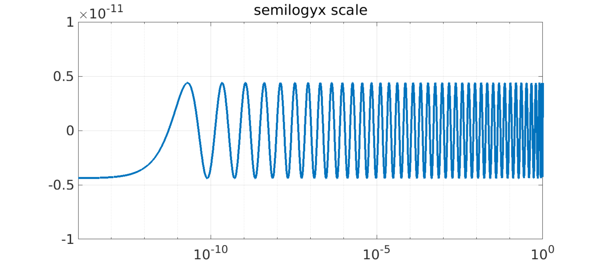
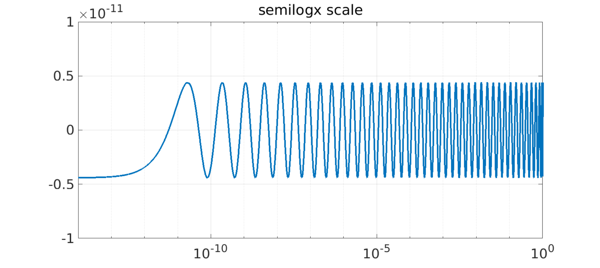
RationalAbsx typo

diff --git a/examples/approx/img/RationalAbsx.html b/examples/approx/img/RationalAbsx.html
@@ -17,9 +17,9 @@ Now, by contrast, here we go to type $(80,80)$.  Chebfun has to work a bit, but 
 tic, [p,q,r] = minimax(f,80,80,'silent'); toc
 xx = linspace(-1,1,3000).^3;
 LW = 'linewidth'; FS = 'fontsize';
-plot(xx,f(xx)-r(xx),LW,4)
+plot(xx,f(xx)-r(xx),LW,3)
 grid on, ylim(1e-11*[-1 1])
-title('error curve for type (80,80) approximation',FS,36)</pre><pre class="mcode-output">Elapsed time is 21.648573 seconds.
+title('error curve for type (80,80) approximation',FS,36)</pre><pre class="mcode-output">Elapsed time is 21.560009 seconds.
 </pre><img src="img/RationalAbsx_01.png" class="figure" alt="">
 
 Computing such an approximations in ordinary 16-digit arithmetic, so far as we know, is unprecedented.  Varga, Carpenter, and Ruttan computed these approximations in the 1990s using 200-digit extended precision [4].
@@ -27,9 +27,9 @@ Computing such an approximations in ordinary 16-digit arithmetic, so far as we k
 The difficulty lies with the exponentially clustered equioscillation points (and poles along the imaginary axis, clustering near $x=0$). This clustering makes a $p/q$ representation out of the question. To show the exponential effect, we can plot the right half of the error curve on a semilogx scale:
 
 <pre class="mcode-input">xx = logspace(-14,0,5000);
-semilogx(xx,f(xx)-r(xx),LW,4)
+semilogx(xx,f(xx)-r(xx),LW,3)
 grid on, axis([1e-14 1 -1e-11 1e-11])
-title('semilogyx scale',FS,36)</pre><img src="img/RationalAbsx_02.png" class="figure" alt="">
+title('semilogx scale',FS,36)</pre><img src="img/RationalAbsx_02.png" class="figure" alt="">
 
 Floating-point computing with rational functions like this has been effectively impossible in the past; we seem to be entering a new era.
 

diff --git a/examples/approx/RationalAbsx.html b/examples/approx/RationalAbsx.html
@@ -69,20 +69,20 @@
 tic, [p,q,r] = minimax(f,80,80,'silent'); toc
 xx = linspace(-1,1,3000).^3;
 LW = 'linewidth'; FS = 'fontsize';
-plot(xx,f(xx)-r(xx),LW,4)
+plot(xx,f(xx)-r(xx),LW,3)
 grid on, ylim(1e-11*[-1 1])
 title('error curve for type (80,80) approximation',FS,36)</pre>
 
-<pre class="mcode-output">Elapsed time is 21.648573 seconds.
+<pre class="mcode-output">Elapsed time is 21.560009 seconds.
 </pre>
 
 <p><img src="img/RationalAbsx_01.png" class="figure" alt=""></p>
 <p>Computing such an approximations in ordinary 16-digit arithmetic, so far as we know, is unprecedented.  Varga, Carpenter, and Ruttan computed these approximations in the 1990s using 200-digit extended precision [4].</p>
 <p>The difficulty lies with the exponentially clustered equioscillation points (and poles along the imaginary axis, clustering near $x=0$). This clustering makes a $p/q$ representation out of the question. To show the exponential effect, we can plot the right half of the error curve on a semilogx scale:</p>
 <pre class="mcode-input">xx = logspace(-14,0,5000);
-semilogx(xx,f(xx)-r(xx),LW,4)
+semilogx(xx,f(xx)-r(xx),LW,3)
 grid on, axis([1e-14 1 -1e-11 1e-11])
-title('semilogyx scale',FS,36)</pre>
+title('semilogx scale',FS,36)</pre>
 
 <p><img src="img/RationalAbsx_02.png" class="figure" alt=""></p>
 <p>Floating-point computing with rational functions like this has been effectively impossible in the past; we seem to be entering a new era.</p>

diff --git a/index.html b/index.html
@@ -269,5 +269,5 @@ plot(minx(1),minx(2),'.w')
     <script type="text/javascript" src="/js/config.js"></script>
     <script type="text/javascript" src="/js/jquery.flexslider-min.js"></script>
   </body>
-<!-- Compiled on Wednesday, 24 May 2017 at 10:24. -->
+<!-- Compiled on Wednesday, 24 May 2017 at 10:47. -->
 </html>

diff --git a/examples/approx/RationalAbsx.m b/examples/approx/RationalAbsx.m
@@ -40,7 +40,7 @@ x = chebfun('x'); f = abs(x);
 tic, [p,q,r] = minimax(f,80,80,'silent'); toc
 xx = linspace(-1,1,3000).^3;
 LW = 'linewidth'; FS = 'fontsize';
-plot(xx,f(xx)-r(xx),LW,4)
+plot(xx,f(xx)-r(xx),LW,3)
 grid on, ylim(1e-11*[-1 1])
 title('error curve for type (80,80) approximation',FS,36)
 
@@ -57,9 +57,9 @@ title('error curve for type (80,80) approximation',FS,36)
 % To show the exponential effect, we can plot the right half of the error curve
 % on a semilogx scale: 
 xx = logspace(-14,0,5000);
-semilogx(xx,f(xx)-r(xx),LW,4)
+semilogx(xx,f(xx)-r(xx),LW,3)
 grid on, axis([1e-14 1 -1e-11 1e-11])
-title('semilogyx scale',FS,36)
+title('semilogx scale',FS,36)
 
 %%
 % Floating-point computing with rational functions like this has been
